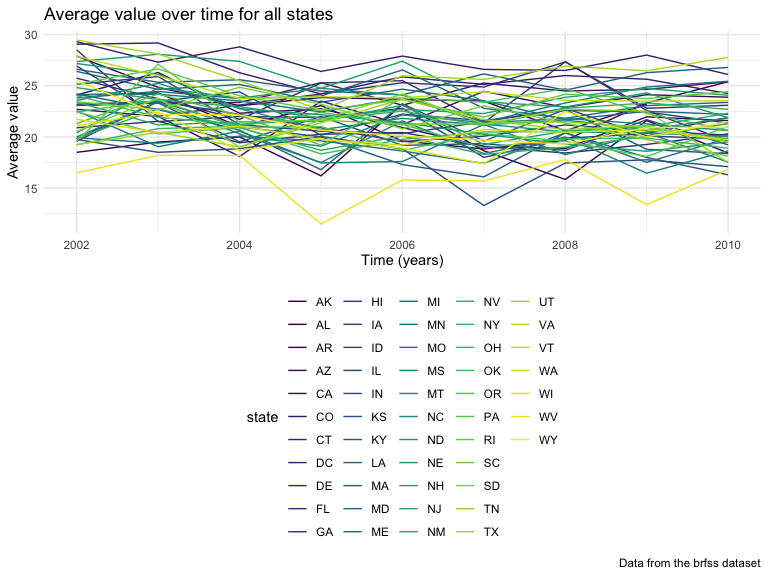
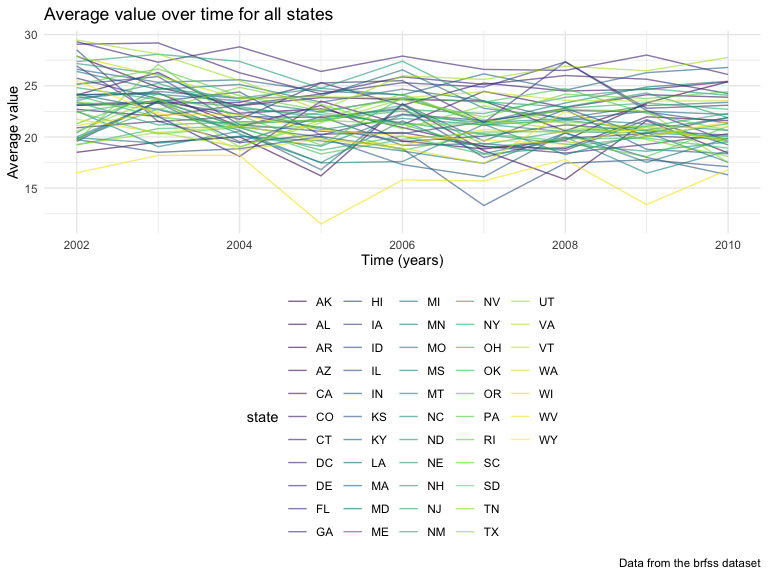
final edits

diff --git a/p8105_hw3_sg3891.md b/p8105_hw3_sg3891.md
@@ -258,7 +258,7 @@ spaghetti_df = brfss_cleaned %>%
 
 ``` r
 ggplot(spaghetti_df, aes(x = year, y = average, color = state)) + 
-  geom_line() + 
+  geom_line(alpha = 0.6) + 
   labs(
     title = "Average value over time for all states ",
     x = "Time (years)",
@@ -268,6 +268,7 @@ ggplot(spaghetti_df, aes(x = year, y = average, color = state)) +
 ```
 
 ![](p8105_hw3_sg3891_files/figure-gfm/q2_spaghetti-1.png)<!-- -->
+
 Looking at the spaghetti plot above, we see that over time from 2002 to
 2010, there is a lot of flux in average value, with a trend of
 decreasing average value in general across the states.
@@ -342,62 +343,34 @@ activity variable for each day, and create a table showing these totals.
 Are any trends apparent?
 
 ``` r
-accel_total_daily = accel_cleaned %>% 
-  group_by(day_id) %>% 
+  accel_total_daily = accel_cleaned %>% 
+  group_by(week, day) %>% 
   summarize(total_daily_activity = sum(activity_counts)) %>%
-  select(day_id, total_daily_activity) %>% 
-  knitr::kable()
-
+  pivot_wider(
+    names_from = day,
+    values_from = total_daily_activity
+  ) %>% 
+  knitr::kable(digits = 1)
 accel_total_daily
 ```
 
-| day\_id | total\_daily\_activity |
-|--------:|-----------------------:|
-|       1 |              480542.62 |
-|       2 |               78828.07 |
-|       3 |              376254.00 |
-|       4 |              631105.00 |
-|       5 |              355923.64 |
-|       6 |              307094.24 |
-|       7 |              340115.01 |
-|       8 |              568839.00 |
-|       9 |              295431.00 |
-|      10 |              607175.00 |
-|      11 |              422018.00 |
-|      12 |              474048.00 |
-|      13 |              423245.00 |
-|      14 |              440962.00 |
-|      15 |              467420.00 |
-|      16 |              685910.00 |
-|      17 |              382928.00 |
-|      18 |              467052.00 |
-|      19 |              371230.00 |
-|      20 |              381507.00 |
-|      21 |              468869.00 |
-|      22 |              154049.00 |
-|      23 |              409450.00 |
-|      24 |                1440.00 |
-|      25 |              260617.00 |
-|      26 |              340291.00 |
-|      27 |              319568.00 |
-|      28 |              434460.00 |
-|      29 |              620860.00 |
-|      30 |              389080.00 |
-|      31 |                1440.00 |
-|      32 |              138421.00 |
-|      33 |              549658.00 |
-|      34 |              367824.00 |
-|      35 |              445366.00 |
+| week | Sunday |   Monday |  Tuesday | Wednesday | Thursday |   Friday | Saturday |
+|-----:|-------:|---------:|---------:|----------:|---------:|---------:|---------:|
+|    1 | 631105 |  78828.1 | 307094.2 |    340115 | 355923.6 | 480542.6 |   376254 |
+|    2 | 422018 | 295431.0 | 423245.0 |    440962 | 474048.0 | 568839.0 |   607175 |
+|    3 | 467052 | 685910.0 | 381507.0 |    468869 | 371230.0 | 467420.0 |   382928 |
+|    4 | 260617 | 409450.0 | 319568.0 |    434460 | 340291.0 | 154049.0 |     1440 |
+|    5 | 138421 | 389080.0 | 367824.0 |    445366 | 549658.0 | 620860.0 |     1440 |
 
 Looking at the above table, it appears that the subject had very little
-activity on day 24 and 31. Other than that, activity appears to
-fluctuate throughout the 35 days, with no clear trend.
+activity on Saturday of Weeks 4 and 5. Other than that, activity appears
+to fluctuate throughout the 35 days, with no clear trend.
 
 #### Question 3.2
 
-Make a single-panel plot that shows the 24-hour activity time courses
-for each day and use color to indicate day of the week. Describe in
-words any patterns or conclusions you can make based on this graph.
+The code chunk below produces a single-panel plot that shows the 24-hour
+activity time courses for each day and uses color to indicate day of the
+week.
 
 ``` r
 accel_cleaned %>% 
@@ -422,4 +395,9 @@ accel_cleaned %>%
 ![](p8105_hw3_sg3891_files/figure-gfm/accel_plot-1.png)<!-- -->
 
 Looking at this graph, we can see that Friday average activity counts
-peak at around hour 21, where the hour range is from 0-23.
+peak at around hour 21, while Sunday average activity seems to peak
+around hour 10.5. Additionally, in general there is an upward trend for
+activity until hour 18 across all days of the week, and after hour 18,
+most days see a dramatic downwards slope in terms of activity. Activity
+seems to subside by the end of the 24-hour period and reach its lowest
+point at this time for all days in the week.
